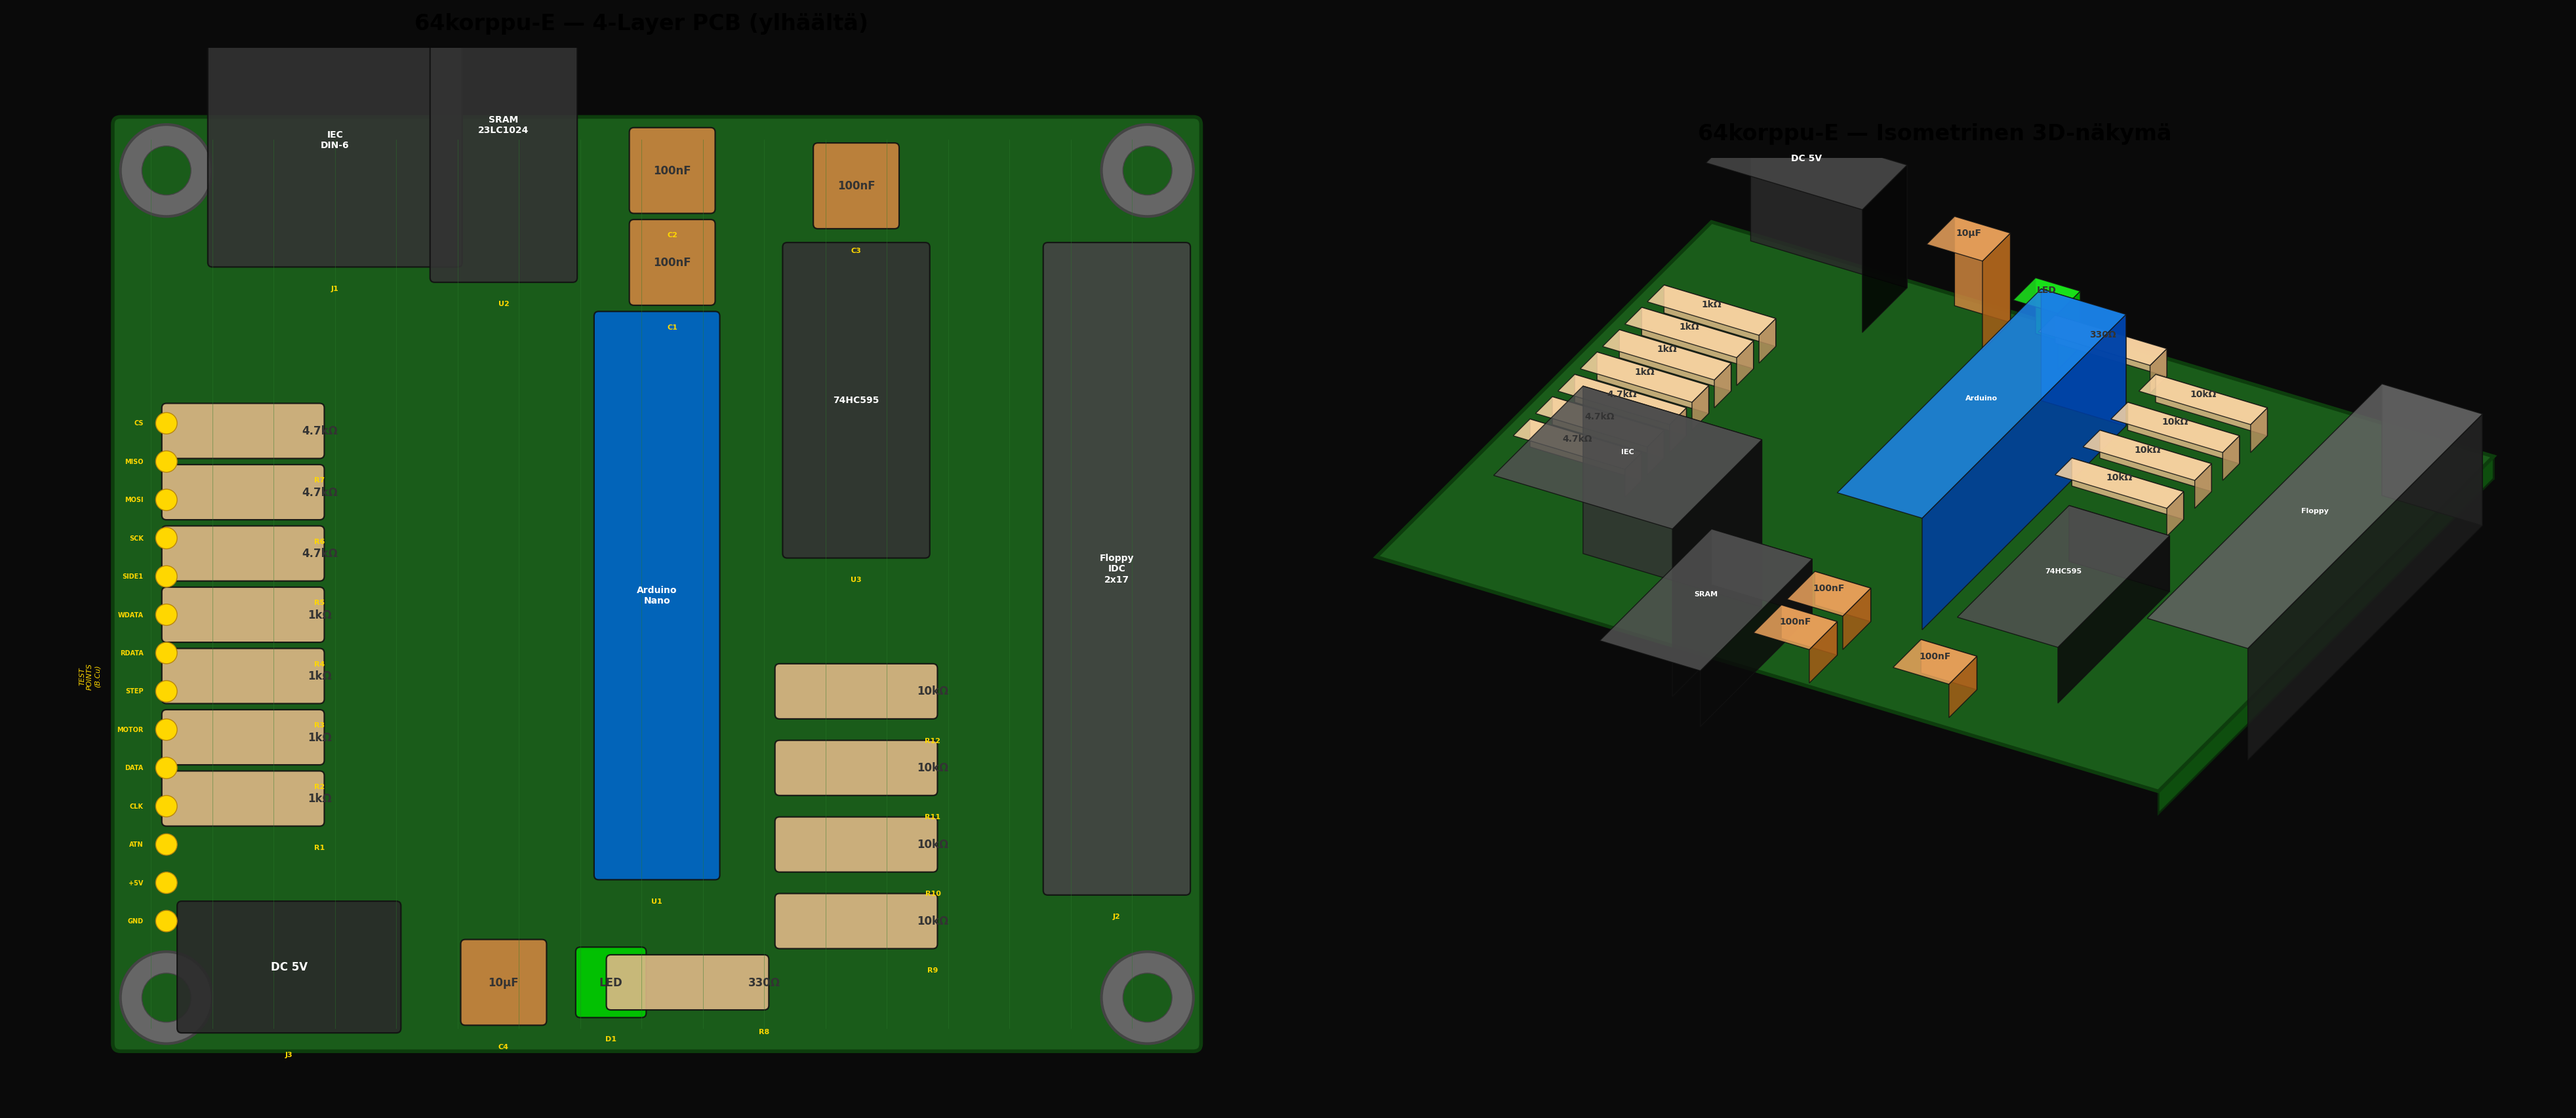
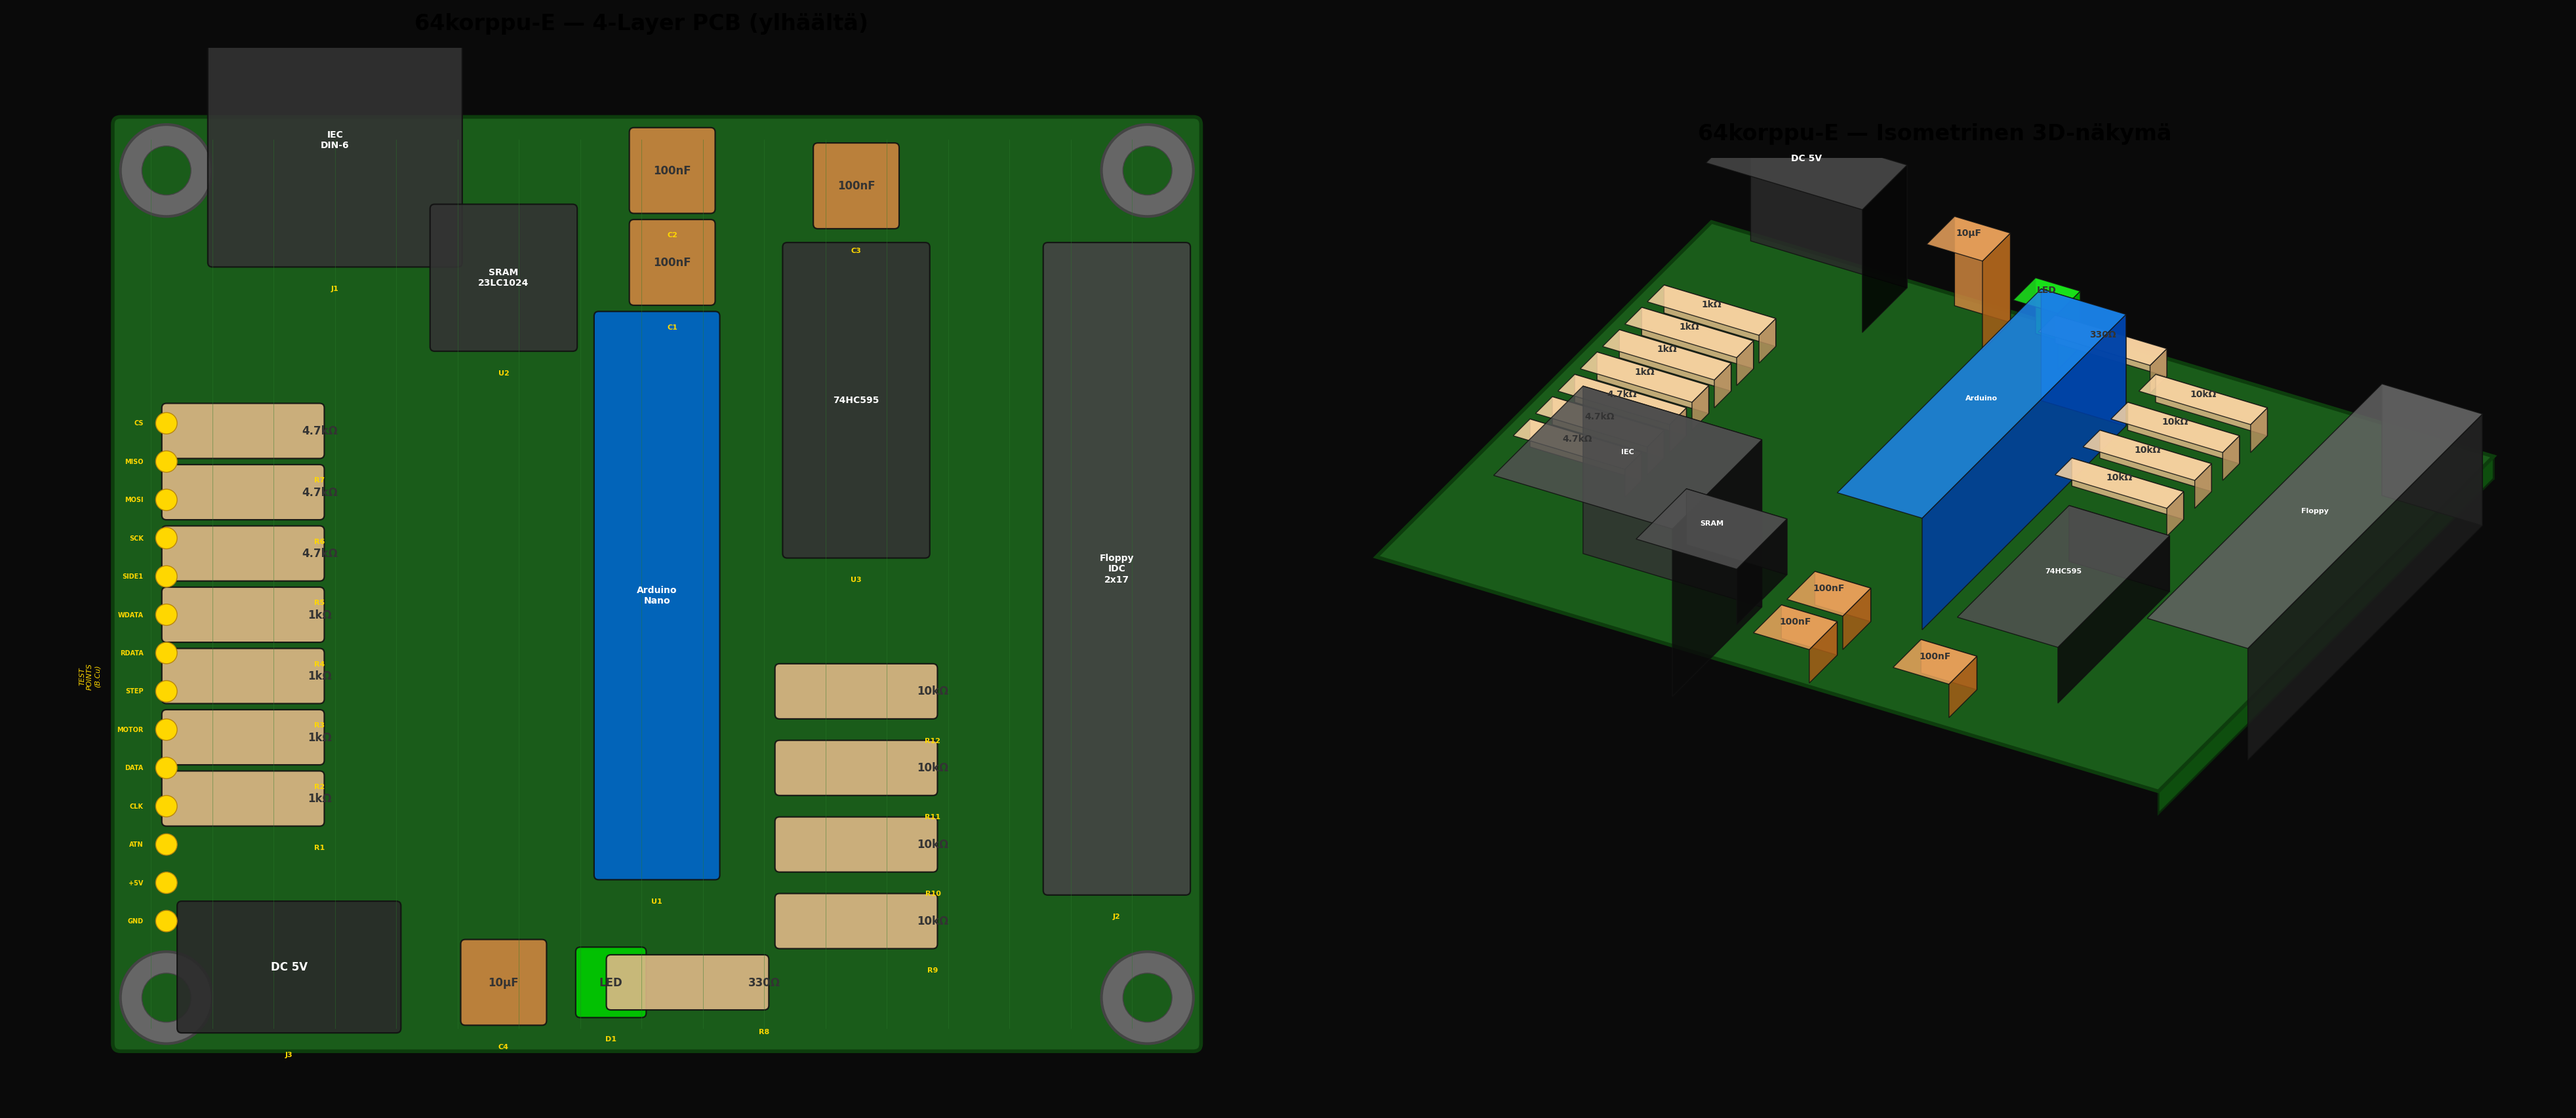
Fix SRAM body size in 3D render: DIP-8 is 9mm, not 20mm

Changed region(s): [[0.1553, 0.0311, 0.2485, 0.1864], [0.6212, 0.4349, 0.7144, 0.6213], [0.1553, 0.2485, 0.2485, 0.3417]]

diff --git a/tools/render-3d.py b/tools/render-3d.py
@@ -45,7 +45,7 @@ COMPONENTS = [
     # Floppy IDC connector
     ('J2', 165, 110, 9, 42, 'Floppy\nIDC\n2x17', '#444444', 10),
     # ICs
-    ('U2', 125, 150, 9, 20, 'SRAM\n23LC1024', '#333333', 5),
+    ('U2', 125, 150, 9, 9, 'SRAM\n23LC1024', '#333333', 5),
     ('U3', 148, 132, 9, 20, '74HC595', '#333333', 5),
     # Bypass caps
     ('C1', 136, 151, 5, 5, '100nF', '#CD853F', 3),
